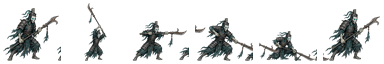
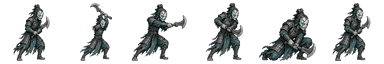
Fix gui zu attack connected weapon sprites

diff --git a/tools/cut_task41_gui_zu_sheet.py b/tools/cut_task41_gui_zu_sheet.py
@@ -4,7 +4,7 @@ from PIL import Image
 
 ROOT = Path(__file__).resolve().parents[1]
 SRC = ROOT / "assets/source/task41/gui_zu_anim_sheet_v2.png"
-ATTACK_SRC = ROOT / "assets/source/task41/gui_zu_attack_sheet_v1.png"
+ATTACK_SRC = ROOT / "assets/source/task41/gui_zu_attack_sheet_v4.png"
 OUT_DIR = ROOT / "assets/characters/enemies/gui_zu"
 
 FRAME_BOXES = {
@@ -15,12 +15,12 @@ FRAME_BOXES = {
         (1630, 70, 1948, 528),
     ],
     "attack": [
-        (50, 400, 430, 790),
-        (390, 120, 660, 790),
-        (630, 420, 1068, 790),
-        (980, 430, 1378, 800),
-        (1260, 420, 1740, 800),
-        (1680, 390, 2048, 790),
+        (18, 260, 326, 740),
+        (334, 174, 666, 740),
+        (668, 300, 1088, 740),
+        (1064, 292, 1368, 740),
+        (1370, 406, 1722, 742),
+        (1712, 286, 2028, 750),
     ],
     "hurt": [
         (276, 1136, 616, 1498),
